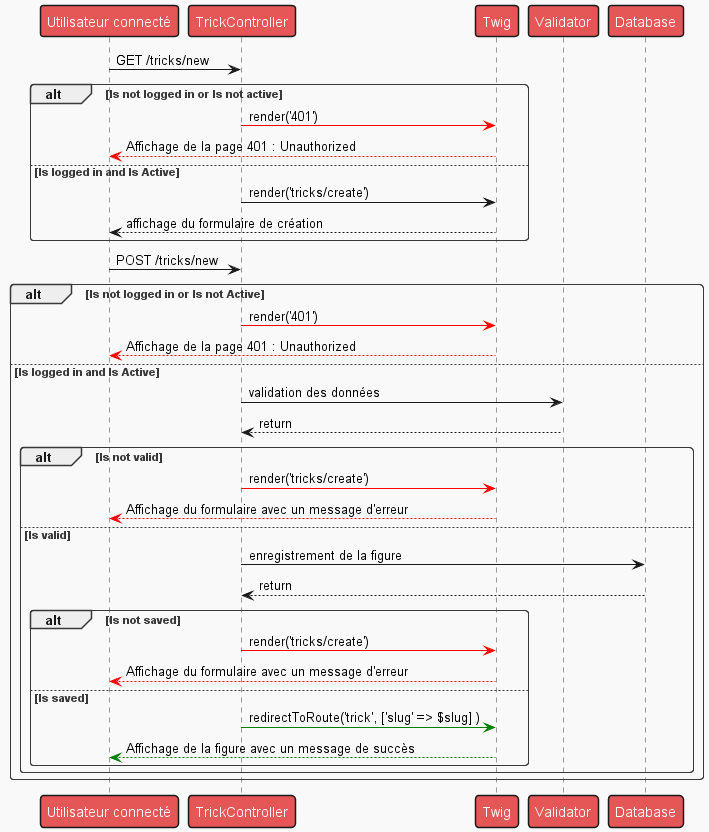
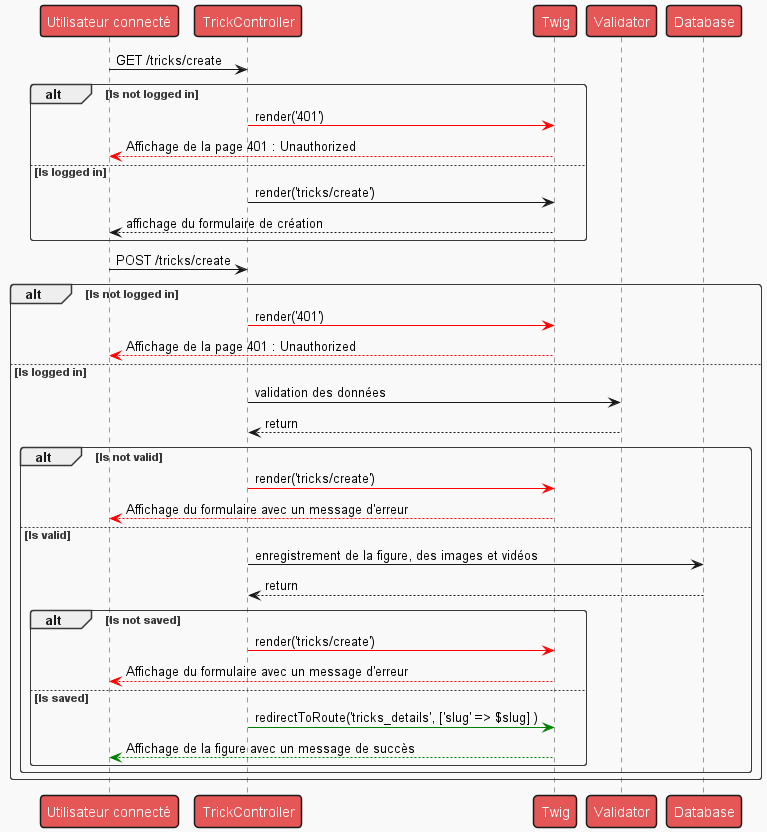
feat(diagrams): fix diagrams and fix email template

diff --git a/migrations/Version20220825143046.php b/migrations/Version20220825143046.php
@@ -20,21 +20,51 @@ final class Version20220825143046 extends AbstractMigration
     public function up(Schema $schema): void
     {
         // this up() migration is auto-generated, please modify it to your needs
-        $this->addSql('CREATE TABLE comment (id VARCHAR(255) NOT NULL, trick_id VARCHAR(255) NOT NULL, author_id VARCHAR(255) NOT NULL, comment LONGTEXT NOT NULL, blocked_at DATETIME DEFAULT NULL COMMENT \'(DC2Type:datetime_immutable)\', created_at DATETIME NOT NULL COMMENT \'(DC2Type:datetime_immutable)\', updated_at DATETIME NOT NULL COMMENT \'(DC2Type:datetime_immutable)\', INDEX IDX_9474526CB281BE2E (trick_id), INDEX IDX_9474526CF675F31B (author_id), PRIMARY KEY(id)) DEFAULT CHARACTER SET utf8mb4 COLLATE `utf8mb4_unicode_ci` ENGINE = InnoDB');
-        $this->addSql('CREATE TABLE `group` (id VARCHAR(255) NOT NULL, name VARCHAR(255) NOT NULL, created_at DATETIME NOT NULL COMMENT \'(DC2Type:datetime_immutable)\', updated_at DATETIME NOT NULL COMMENT \'(DC2Type:datetime_immutable)\', PRIMARY KEY(id)) DEFAULT CHARACTER SET utf8mb4 COLLATE `utf8mb4_unicode_ci` ENGINE = InnoDB');
-        $this->addSql('CREATE TABLE image (id VARCHAR(255) NOT NULL, main_image_trick_id VARCHAR(255) DEFAULT NULL, trick_id VARCHAR(255) DEFAULT NULL, path LONGTEXT NOT NULL, created_at DATETIME NOT NULL COMMENT \'(DC2Type:datetime_immutable)\', updated_at DATETIME NOT NULL COMMENT \'(DC2Type:datetime_immutable)\', UNIQUE INDEX UNIQ_C53D045FB37D7BCC (main_image_trick_id), INDEX IDX_C53D045FB281BE2E (trick_id), PRIMARY KEY(id)) DEFAULT CHARACTER SET utf8mb4 COLLATE `utf8mb4_unicode_ci` ENGINE = InnoDB');
-        $this->addSql('CREATE TABLE trick (id VARCHAR(255) NOT NULL, main_image_id VARCHAR(255) DEFAULT NULL, trick_group_id VARCHAR(255) NOT NULL, author_id VARCHAR(255) NOT NULL, name VARCHAR(255) NOT NULL, description LONGTEXT NOT NULL, slug LONGTEXT NOT NULL, created_at DATETIME NOT NULL COMMENT \'(DC2Type:datetime_immutable)\', updated_at DATETIME NOT NULL COMMENT \'(DC2Type:datetime_immutable)\', blocked_at DATETIME DEFAULT NULL COMMENT \'(DC2Type:datetime_immutable)\', UNIQUE INDEX UNIQ_D8F0A91EE4873418 (main_image_id), INDEX IDX_D8F0A91E9B875DF8 (trick_group_id), INDEX IDX_D8F0A91EF675F31B (author_id), PRIMARY KEY(id)) DEFAULT CHARACTER SET utf8mb4 COLLATE `utf8mb4_unicode_ci` ENGINE = InnoDB');
-        $this->addSql('CREATE TABLE `user` (id VARCHAR(255) NOT NULL, username VARCHAR(180) NOT NULL, roles JSON NOT NULL, password VARCHAR(255) NOT NULL, firstname VARCHAR(100) DEFAULT NULL, lastname VARCHAR(100) DEFAULT NULL, email VARCHAR(255) NOT NULL, profile_picture VARCHAR(255) DEFAULT NULL, confirmed_at DATETIME DEFAULT NULL COMMENT \'(DC2Type:datetime_immutable)\', blocked_at DATETIME DEFAULT NULL COMMENT \'(DC2Type:datetime_immutable)\', confirmation_token VARCHAR(255) DEFAULT NULL, forgot_password_token VARCHAR(255) DEFAULT NULL, created_at DATETIME NOT NULL COMMENT \'(DC2Type:datetime_immutable)\', updated_at DATETIME NOT NULL COMMENT \'(DC2Type:datetime_immutable)\', UNIQUE INDEX UNIQ_8D93D649F85E0677 (username), PRIMARY KEY(id)) DEFAULT CHARACTER SET utf8mb4 COLLATE `utf8mb4_unicode_ci` ENGINE = InnoDB');
-        $this->addSql('CREATE TABLE video (id VARCHAR(255) NOT NULL, trick_id VARCHAR(255) NOT NULL, url LONGTEXT NOT NULL, created_at DATETIME NOT NULL COMMENT \'(DC2Type:datetime_immutable)\', updated_at DATETIME NOT NULL COMMENT \'(DC2Type:datetime_immutable)\', INDEX IDX_7CC7DA2CB281BE2E (trick_id), PRIMARY KEY(id)) DEFAULT CHARACTER SET utf8mb4 COLLATE `utf8mb4_unicode_ci` ENGINE = InnoDB');
-        $this->addSql('CREATE TABLE messenger_messages (id BIGINT AUTO_INCREMENT NOT NULL, body LONGTEXT NOT NULL, headers LONGTEXT NOT NULL, queue_name VARCHAR(190) NOT NULL, created_at DATETIME NOT NULL, available_at DATETIME NOT NULL, delivered_at DATETIME DEFAULT NULL, INDEX IDX_75EA56E0FB7336F0 (queue_name), INDEX IDX_75EA56E0E3BD61CE (available_at), INDEX IDX_75EA56E016BA31DB (delivered_at), PRIMARY KEY(id)) DEFAULT CHARACTER SET utf8mb4 COLLATE `utf8mb4_unicode_ci` ENGINE = InnoDB');
-        $this->addSql('ALTER TABLE comment ADD CONSTRAINT FK_9474526CB281BE2E FOREIGN KEY (trick_id) REFERENCES trick (id) ON DELETE CASCADE');
-        $this->addSql('ALTER TABLE comment ADD CONSTRAINT FK_9474526CF675F31B FOREIGN KEY (author_id) REFERENCES `user` (id) ON DELETE CASCADE');
-        $this->addSql('ALTER TABLE image ADD CONSTRAINT FK_C53D045FB37D7BCC FOREIGN KEY (main_image_trick_id) REFERENCES trick (id) ON DELETE CASCADE');
-        $this->addSql('ALTER TABLE image ADD CONSTRAINT FK_C53D045FB281BE2E FOREIGN KEY (trick_id) REFERENCES trick (id) ON DELETE CASCADE');
-        $this->addSql('ALTER TABLE trick ADD CONSTRAINT FK_D8F0A91EE4873418 FOREIGN KEY (main_image_id) REFERENCES image (id) ON DELETE SET NULL');
-        $this->addSql('ALTER TABLE trick ADD CONSTRAINT FK_D8F0A91E9B875DF8 FOREIGN KEY (trick_group_id) REFERENCES `group` (id) ON DELETE CASCADE');
-        $this->addSql('ALTER TABLE trick ADD CONSTRAINT FK_D8F0A91EF675F31B FOREIGN KEY (author_id) REFERENCES `user` (id) ON DELETE CASCADE');
-        $this->addSql('ALTER TABLE video ADD CONSTRAINT FK_7CC7DA2CB281BE2E FOREIGN KEY (trick_id) REFERENCES trick (id) ON DELETE CASCADE');
+        $this->addSql(
+            'CREATE TABLE comment (id VARCHAR(255) NOT NULL, trick_id VARCHAR(255) NOT NULL, author_id VARCHAR(255) NOT NULL, comment LONGTEXT NOT NULL, blocked_at DATETIME DEFAULT NULL COMMENT \'(DC2Type:datetime_immutable)\', created_at DATETIME NOT NULL COMMENT \'(DC2Type:datetime_immutable)\', updated_at DATETIME NOT NULL COMMENT \'(DC2Type:datetime_immutable)\', INDEX IDX_9474526CB281BE2E (trick_id), INDEX IDX_9474526CF675F31B (author_id), PRIMARY KEY(id)) DEFAULT CHARACTER SET utf8mb4 COLLATE `utf8mb4_unicode_ci` ENGINE = InnoDB'
+        );
+        $this->addSql(
+            'CREATE TABLE `group` (id VARCHAR(255) NOT NULL, name VARCHAR(255) NOT NULL, created_at DATETIME NOT NULL COMMENT \'(DC2Type:datetime_immutable)\', updated_at DATETIME NOT NULL COMMENT \'(DC2Type:datetime_immutable)\', PRIMARY KEY(id)) DEFAULT CHARACTER SET utf8mb4 COLLATE `utf8mb4_unicode_ci` ENGINE = InnoDB'
+        );
+        $this->addSql(
+            'CREATE TABLE image (id VARCHAR(255) NOT NULL, main_image_trick_id VARCHAR(255) DEFAULT NULL, trick_id VARCHAR(255) DEFAULT NULL, path LONGTEXT NOT NULL, created_at DATETIME NOT NULL COMMENT \'(DC2Type:datetime_immutable)\', updated_at DATETIME NOT NULL COMMENT \'(DC2Type:datetime_immutable)\', UNIQUE INDEX UNIQ_C53D045FB37D7BCC (main_image_trick_id), INDEX IDX_C53D045FB281BE2E (trick_id), PRIMARY KEY(id)) DEFAULT CHARACTER SET utf8mb4 COLLATE `utf8mb4_unicode_ci` ENGINE = InnoDB'
+        );
+        $this->addSql(
+            'CREATE TABLE trick (id VARCHAR(255) NOT NULL, main_image_id VARCHAR(255) DEFAULT NULL, trick_group_id VARCHAR(255) NOT NULL, author_id VARCHAR(255) NOT NULL, name VARCHAR(255) NOT NULL, description LONGTEXT NOT NULL, slug LONGTEXT NOT NULL, created_at DATETIME NOT NULL COMMENT \'(DC2Type:datetime_immutable)\', updated_at DATETIME NOT NULL COMMENT \'(DC2Type:datetime_immutable)\', blocked_at DATETIME DEFAULT NULL COMMENT \'(DC2Type:datetime_immutable)\', UNIQUE INDEX UNIQ_D8F0A91EE4873418 (main_image_id), INDEX IDX_D8F0A91E9B875DF8 (trick_group_id), INDEX IDX_D8F0A91EF675F31B (author_id), PRIMARY KEY(id)) DEFAULT CHARACTER SET utf8mb4 COLLATE `utf8mb4_unicode_ci` ENGINE = InnoDB'
+        );
+        $this->addSql(
+            'CREATE TABLE `user` (id VARCHAR(255) NOT NULL, username VARCHAR(180) NOT NULL, roles JSON NOT NULL, password VARCHAR(255) NOT NULL, firstname VARCHAR(100) DEFAULT NULL, lastname VARCHAR(100) DEFAULT NULL, email VARCHAR(255) NOT NULL, profile_picture VARCHAR(255) DEFAULT NULL, confirmed_at DATETIME DEFAULT NULL COMMENT \'(DC2Type:datetime_immutable)\', blocked_at DATETIME DEFAULT NULL COMMENT \'(DC2Type:datetime_immutable)\', confirmation_token VARCHAR(255) DEFAULT NULL, forgot_password_token VARCHAR(255) DEFAULT NULL, created_at DATETIME NOT NULL COMMENT \'(DC2Type:datetime_immutable)\', updated_at DATETIME NOT NULL COMMENT \'(DC2Type:datetime_immutable)\', UNIQUE INDEX UNIQ_8D93D649F85E0677 (username), PRIMARY KEY(id)) DEFAULT CHARACTER SET utf8mb4 COLLATE `utf8mb4_unicode_ci` ENGINE = InnoDB'
+        );
+        $this->addSql(
+            'CREATE TABLE video (id VARCHAR(255) NOT NULL, trick_id VARCHAR(255) NOT NULL, url LONGTEXT NOT NULL, created_at DATETIME NOT NULL COMMENT \'(DC2Type:datetime_immutable)\', updated_at DATETIME NOT NULL COMMENT \'(DC2Type:datetime_immutable)\', INDEX IDX_7CC7DA2CB281BE2E (trick_id), PRIMARY KEY(id)) DEFAULT CHARACTER SET utf8mb4 COLLATE `utf8mb4_unicode_ci` ENGINE = InnoDB'
+        );
+        $this->addSql(
+            'CREATE TABLE messenger_messages (id BIGINT AUTO_INCREMENT NOT NULL, body LONGTEXT NOT NULL, headers LONGTEXT NOT NULL, queue_name VARCHAR(190) NOT NULL, created_at DATETIME NOT NULL, available_at DATETIME NOT NULL, delivered_at DATETIME DEFAULT NULL, INDEX IDX_75EA56E0FB7336F0 (queue_name), INDEX IDX_75EA56E0E3BD61CE (available_at), INDEX IDX_75EA56E016BA31DB (delivered_at), PRIMARY KEY(id)) DEFAULT CHARACTER SET utf8mb4 COLLATE `utf8mb4_unicode_ci` ENGINE = InnoDB'
+        );
+        $this->addSql(
+            'ALTER TABLE comment ADD CONSTRAINT FK_9474526CB281BE2E FOREIGN KEY (trick_id) REFERENCES trick (id) ON DELETE CASCADE'
+        );
+        $this->addSql(
+            'ALTER TABLE comment ADD CONSTRAINT FK_9474526CF675F31B FOREIGN KEY (author_id) REFERENCES `user` (id) ON DELETE CASCADE'
+        );
+        $this->addSql(
+            'ALTER TABLE image ADD CONSTRAINT FK_C53D045FB37D7BCC FOREIGN KEY (main_image_trick_id) REFERENCES trick (id) ON DELETE CASCADE'
+        );
+        $this->addSql(
+            'ALTER TABLE image ADD CONSTRAINT FK_C53D045FB281BE2E FOREIGN KEY (trick_id) REFERENCES trick (id) ON DELETE CASCADE'
+        );
+        $this->addSql(
+            'ALTER TABLE trick ADD CONSTRAINT FK_D8F0A91EE4873418 FOREIGN KEY (main_image_id) REFERENCES image (id) ON DELETE SET NULL'
+        );
+        $this->addSql(
+            'ALTER TABLE trick ADD CONSTRAINT FK_D8F0A91E9B875DF8 FOREIGN KEY (trick_group_id) REFERENCES `group` (id) ON DELETE CASCADE'
+        );
+        $this->addSql(
+            'ALTER TABLE trick ADD CONSTRAINT FK_D8F0A91EF675F31B FOREIGN KEY (author_id) REFERENCES `user` (id) ON DELETE CASCADE'
+        );
+        $this->addSql(
+            'ALTER TABLE video ADD CONSTRAINT FK_7CC7DA2CB281BE2E FOREIGN KEY (trick_id) REFERENCES trick (id) ON DELETE CASCADE'
+        );
     }
 
     public function down(Schema $schema): void

diff --git a/src/Entity/Trick.php b/src/Entity/Trick.php
@@ -30,7 +30,10 @@ class Trick
     #[ORM\Column(type: Types::TEXT)]
     private string $slug;
 
-    #[ORM\OneToOne(mappedBy: 'mainImageTrick', targetEntity: Image::class, cascade: ['persist', 'remove'], orphanRemoval: true)]
+    #[ORM\OneToOne(mappedBy: 'mainImageTrick', targetEntity: Image::class, cascade: [
+        'persist',
+        'remove',
+    ], orphanRemoval: true)]
     #[ORM\JoinColumn(onDelete: 'SET NULL')]
     private ?Image $mainImage = null;
 
